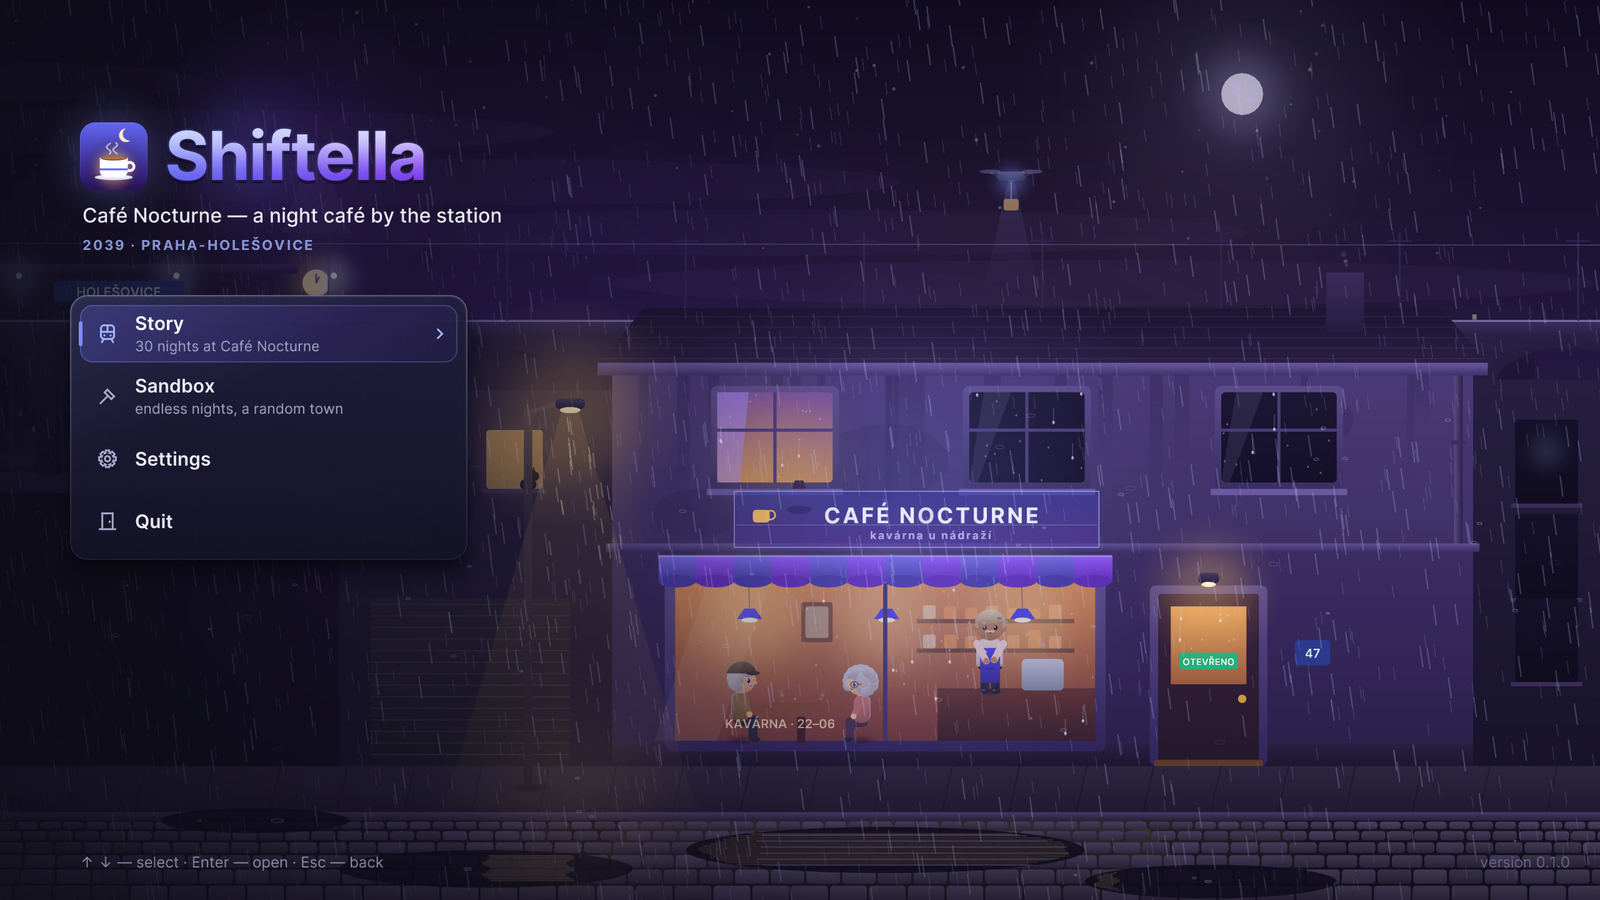
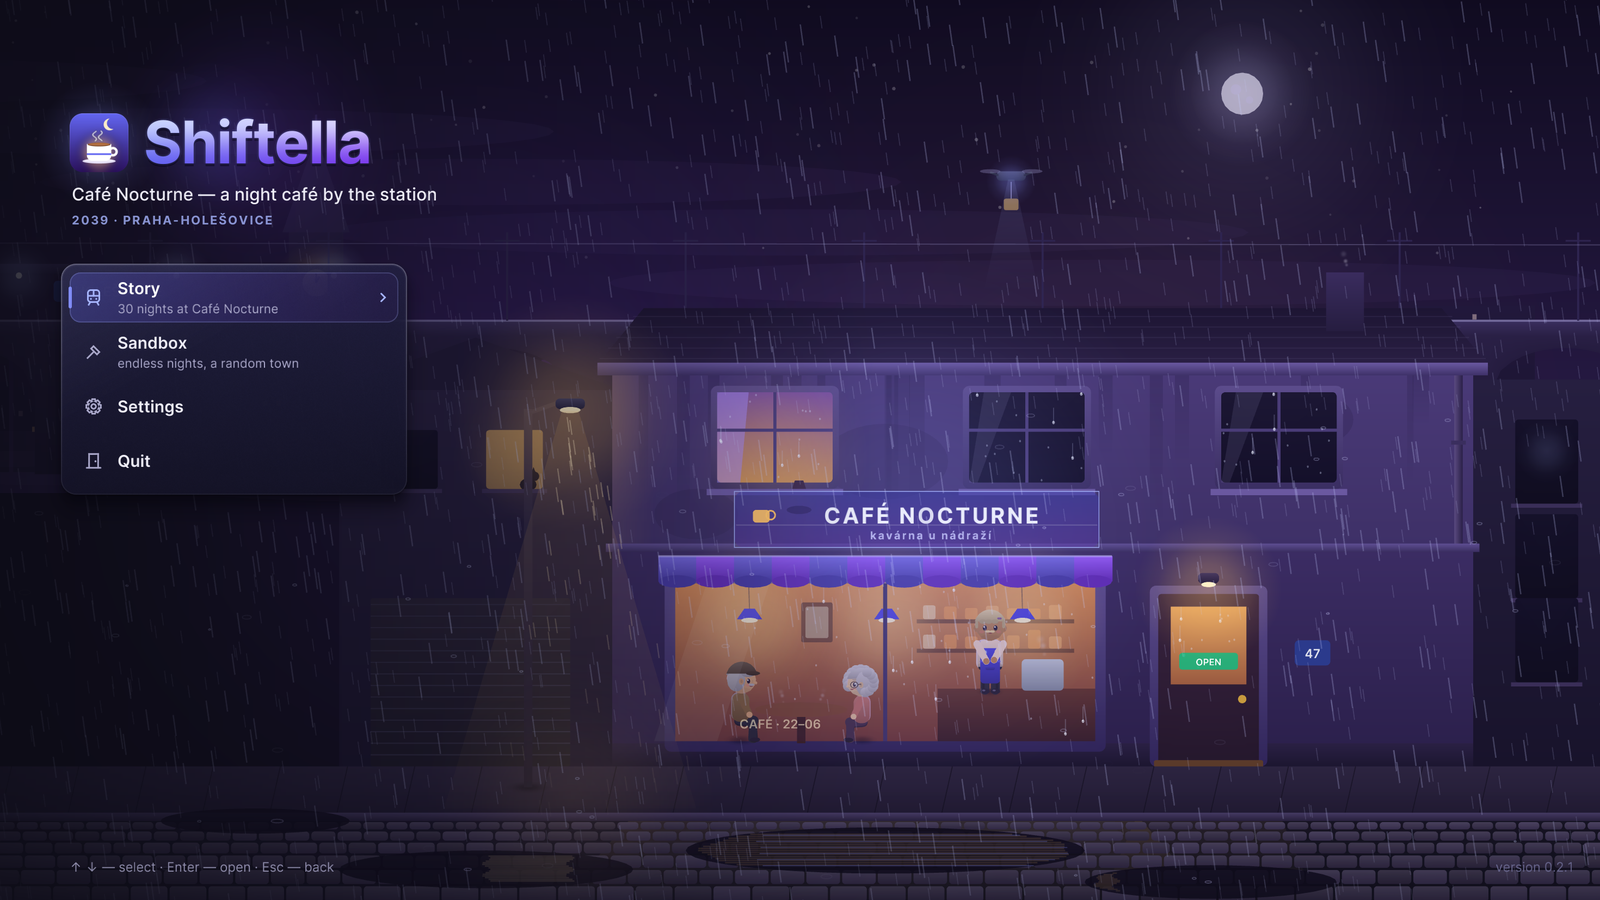
docs(readme): fresh 0.2.1 screenshots — the night, chai, rituals, crew card, build, storm, walk home

diff --git a/README.md b/README.md
@@ -68,16 +68,25 @@ out why she never switched off the light in the window.
   bakery or the tram), step out on the back step for a breath with the station cat, and take
   photos of the night.
 
+![A busy night at Café Nocturne](docs/screenshots/02-night.png)
+
 | | |
 |---|---|
-| ![Order card](docs/screenshots/02-order-card.png) | ![Pour-over mini-game](docs/screenshots/03-minigame.png) |
-| *Mirek's order: what he wants, the best matches, "the usual?"* | *Brewing by hand — a slow pour-over* |
-| ![Recipe book](docs/screenshots/04-recipe-book.png) | ![Morning summary with a polaroid](docs/screenshots/05-morning-polaroid.png) |
-| *Grandma's recipe book, with her notes in the margins* | *The morning after: the night's polaroid develops* |
-| ![The Shiftella app](docs/screenshots/06-shiftella-app.png) | ![A cutscene on the platform](docs/screenshots/07-cutscene.png) |
-| *The in-game Shiftella app — the weekly rozpis as a light puzzle* | *Arriving at Holešovice on the last train* |
+| ![Order card](docs/screenshots/03-order-card.png) | ![Masala chai mini-game](docs/screenshots/04-minigame-chai.png) |
+| *A passenger's order: brew it by hand or quickly* | *Masala chai — spices in the card's order, steep to colour, milk to the mark* |
+| ![Counting the float](docs/screenshots/05-ritual.png) | ![Recipe book](docs/screenshots/06-recipe-book.png) |
+| *Opening rituals by hand: count the float before the doors open* | *Grandma's recipe book, with her notes in the margins* |
+| ![Morning summary](docs/screenshots/07-morning.png) | ![The Shiftella app](docs/screenshots/08-shiftella-app.png) |
+| *The morning after: the night's polaroid and what the café gave you* | *The in-game Shiftella app — the weekly rozpis* |
+| ![Crew card](docs/screenshots/09-crew-card.png) | ![Build mode](docs/screenshots/10-build.png) |
+| *A helper's card: duties, mood, what they're doing right now* | *Build mode: a reading nook and a listening corner form* |
+| ![Snowed in](docs/screenshots/11-storm-night.png) | ![Walk home](docs/screenshots/12-walk-home.png) |
+| *The storm night: the line is closed, everyone stays till morning* | *Walking home at dawn along the snowy embankment* |
 
-![An Advent night in the café](docs/screenshots/08-advent-night.png)
+![The clock waits for you at 21:59](docs/screenshots/13-doors-wait.png)
+*21:59 — the café is ready and the clock waits until you open the doors.*
+
+![An Advent night in the café](docs/screenshots/14-advent-night.png)
 
 ## Features
 
